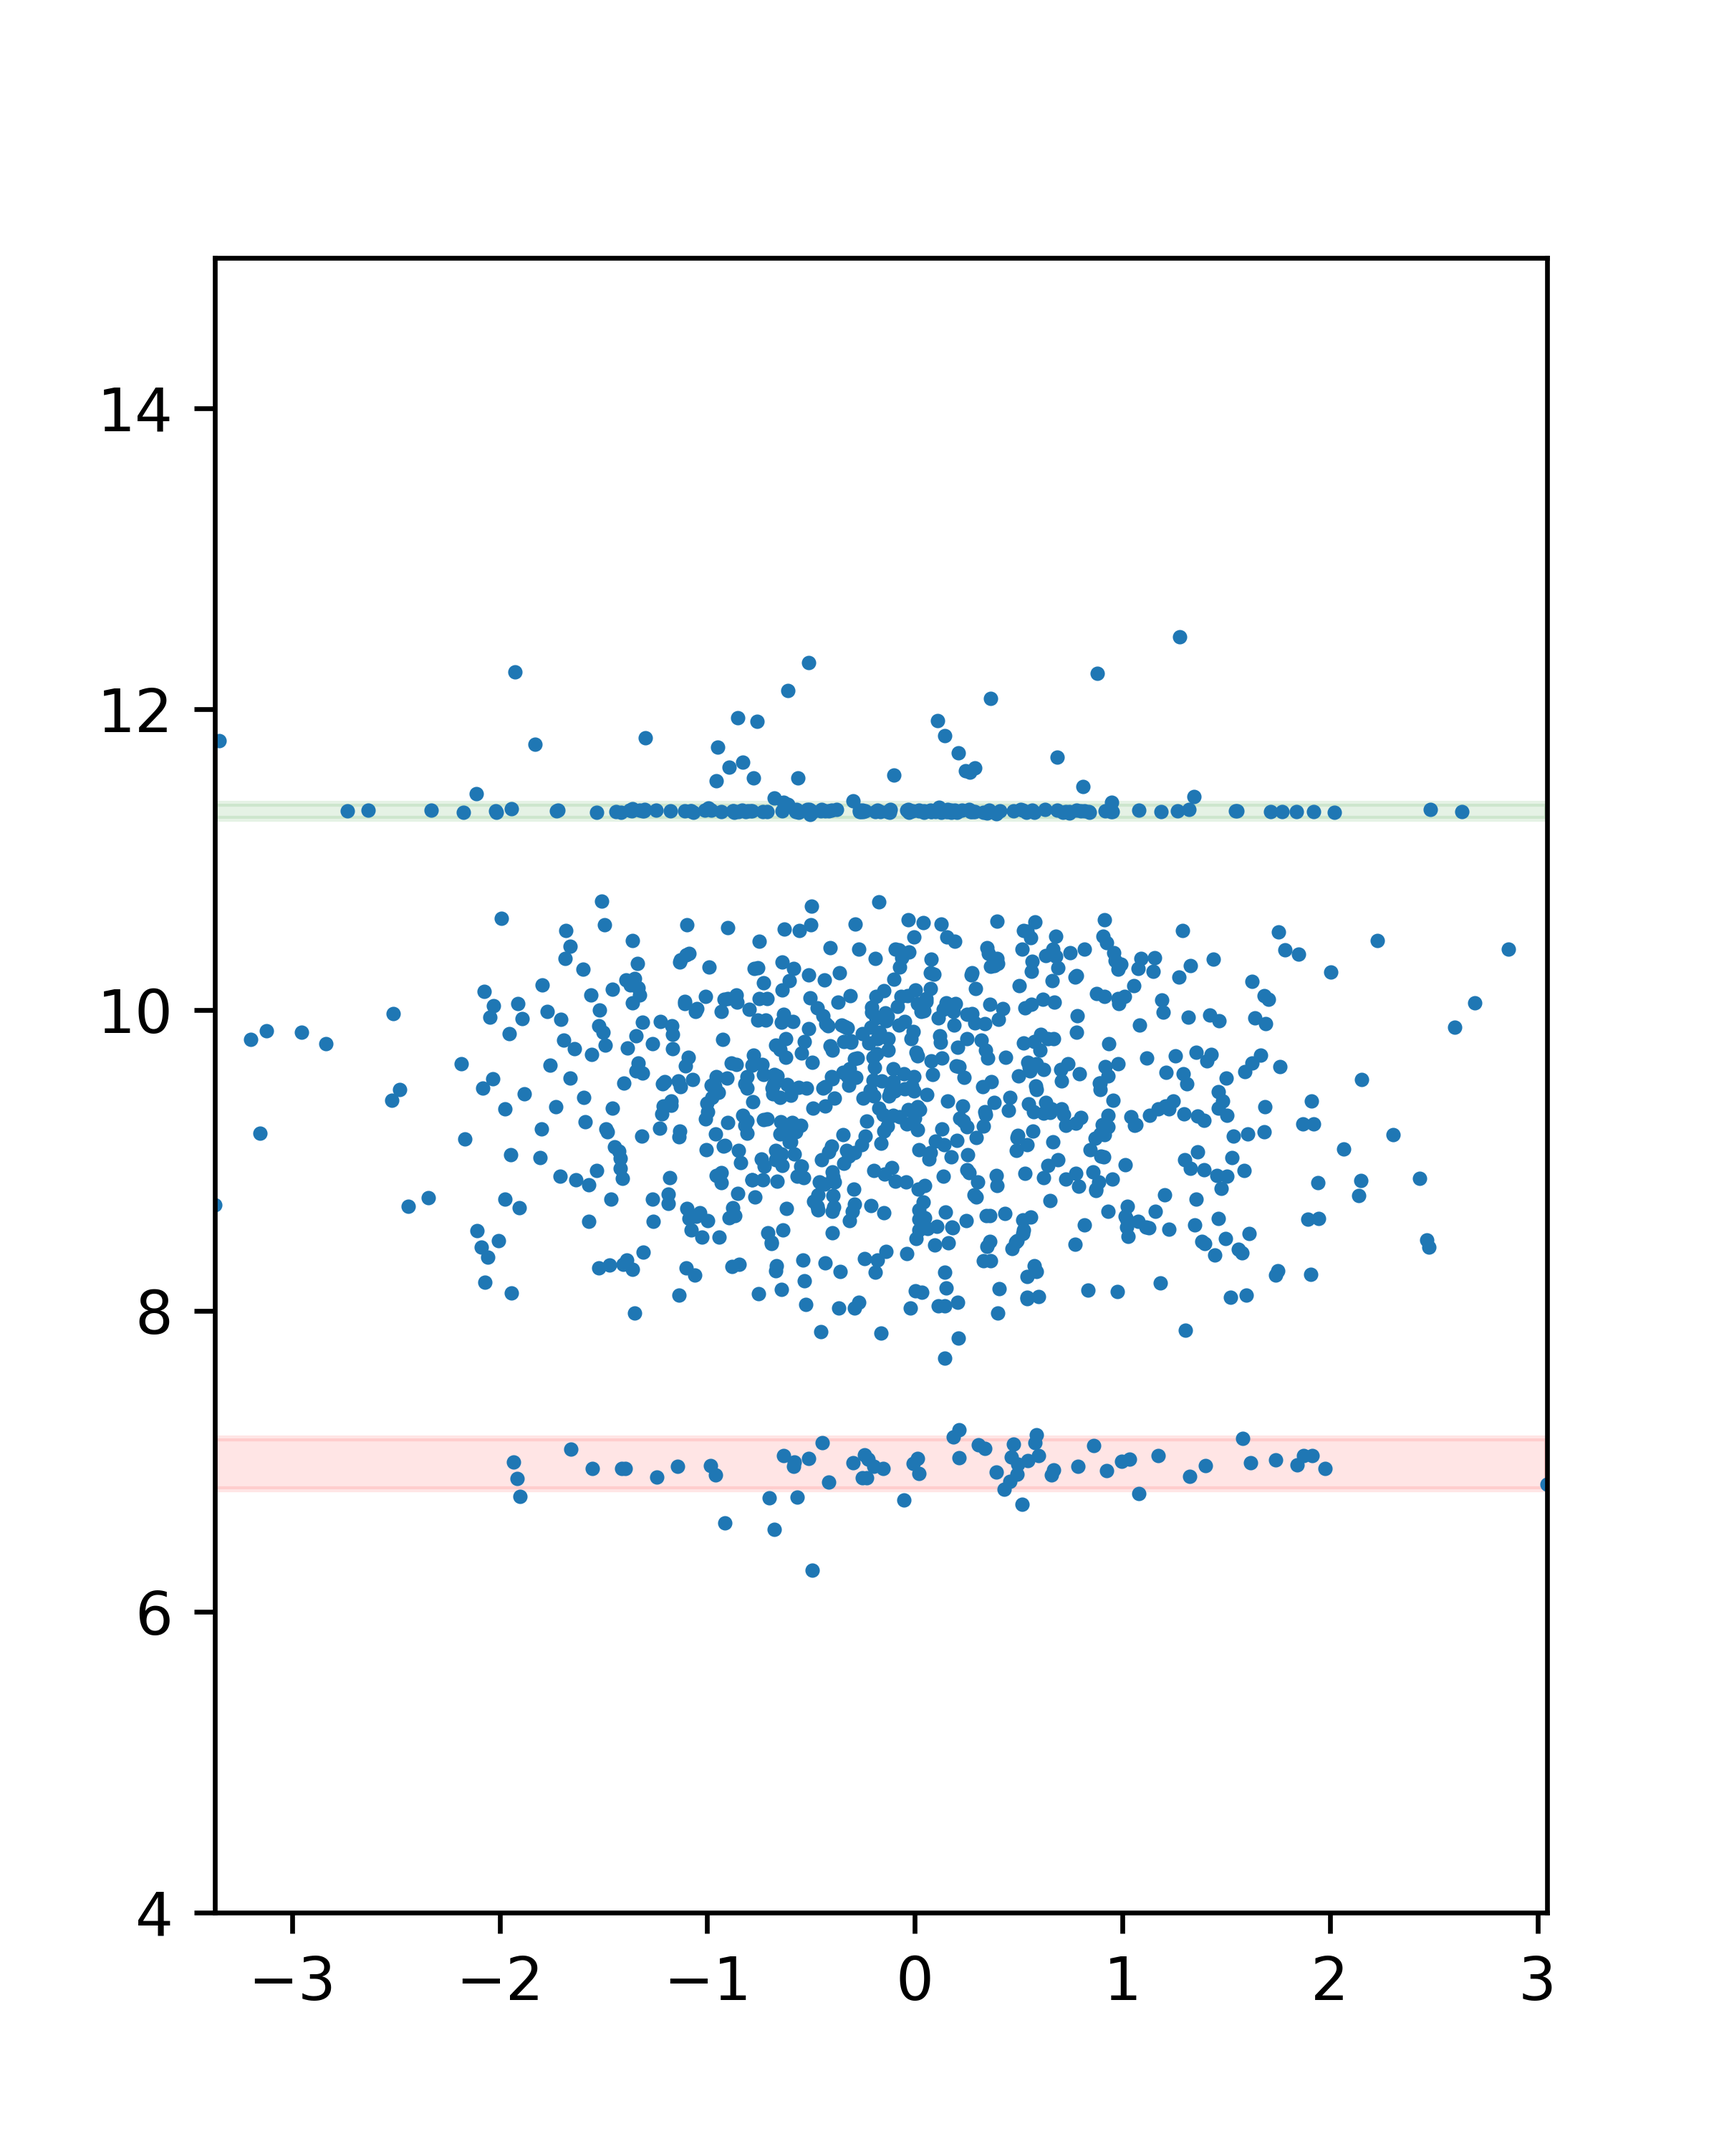
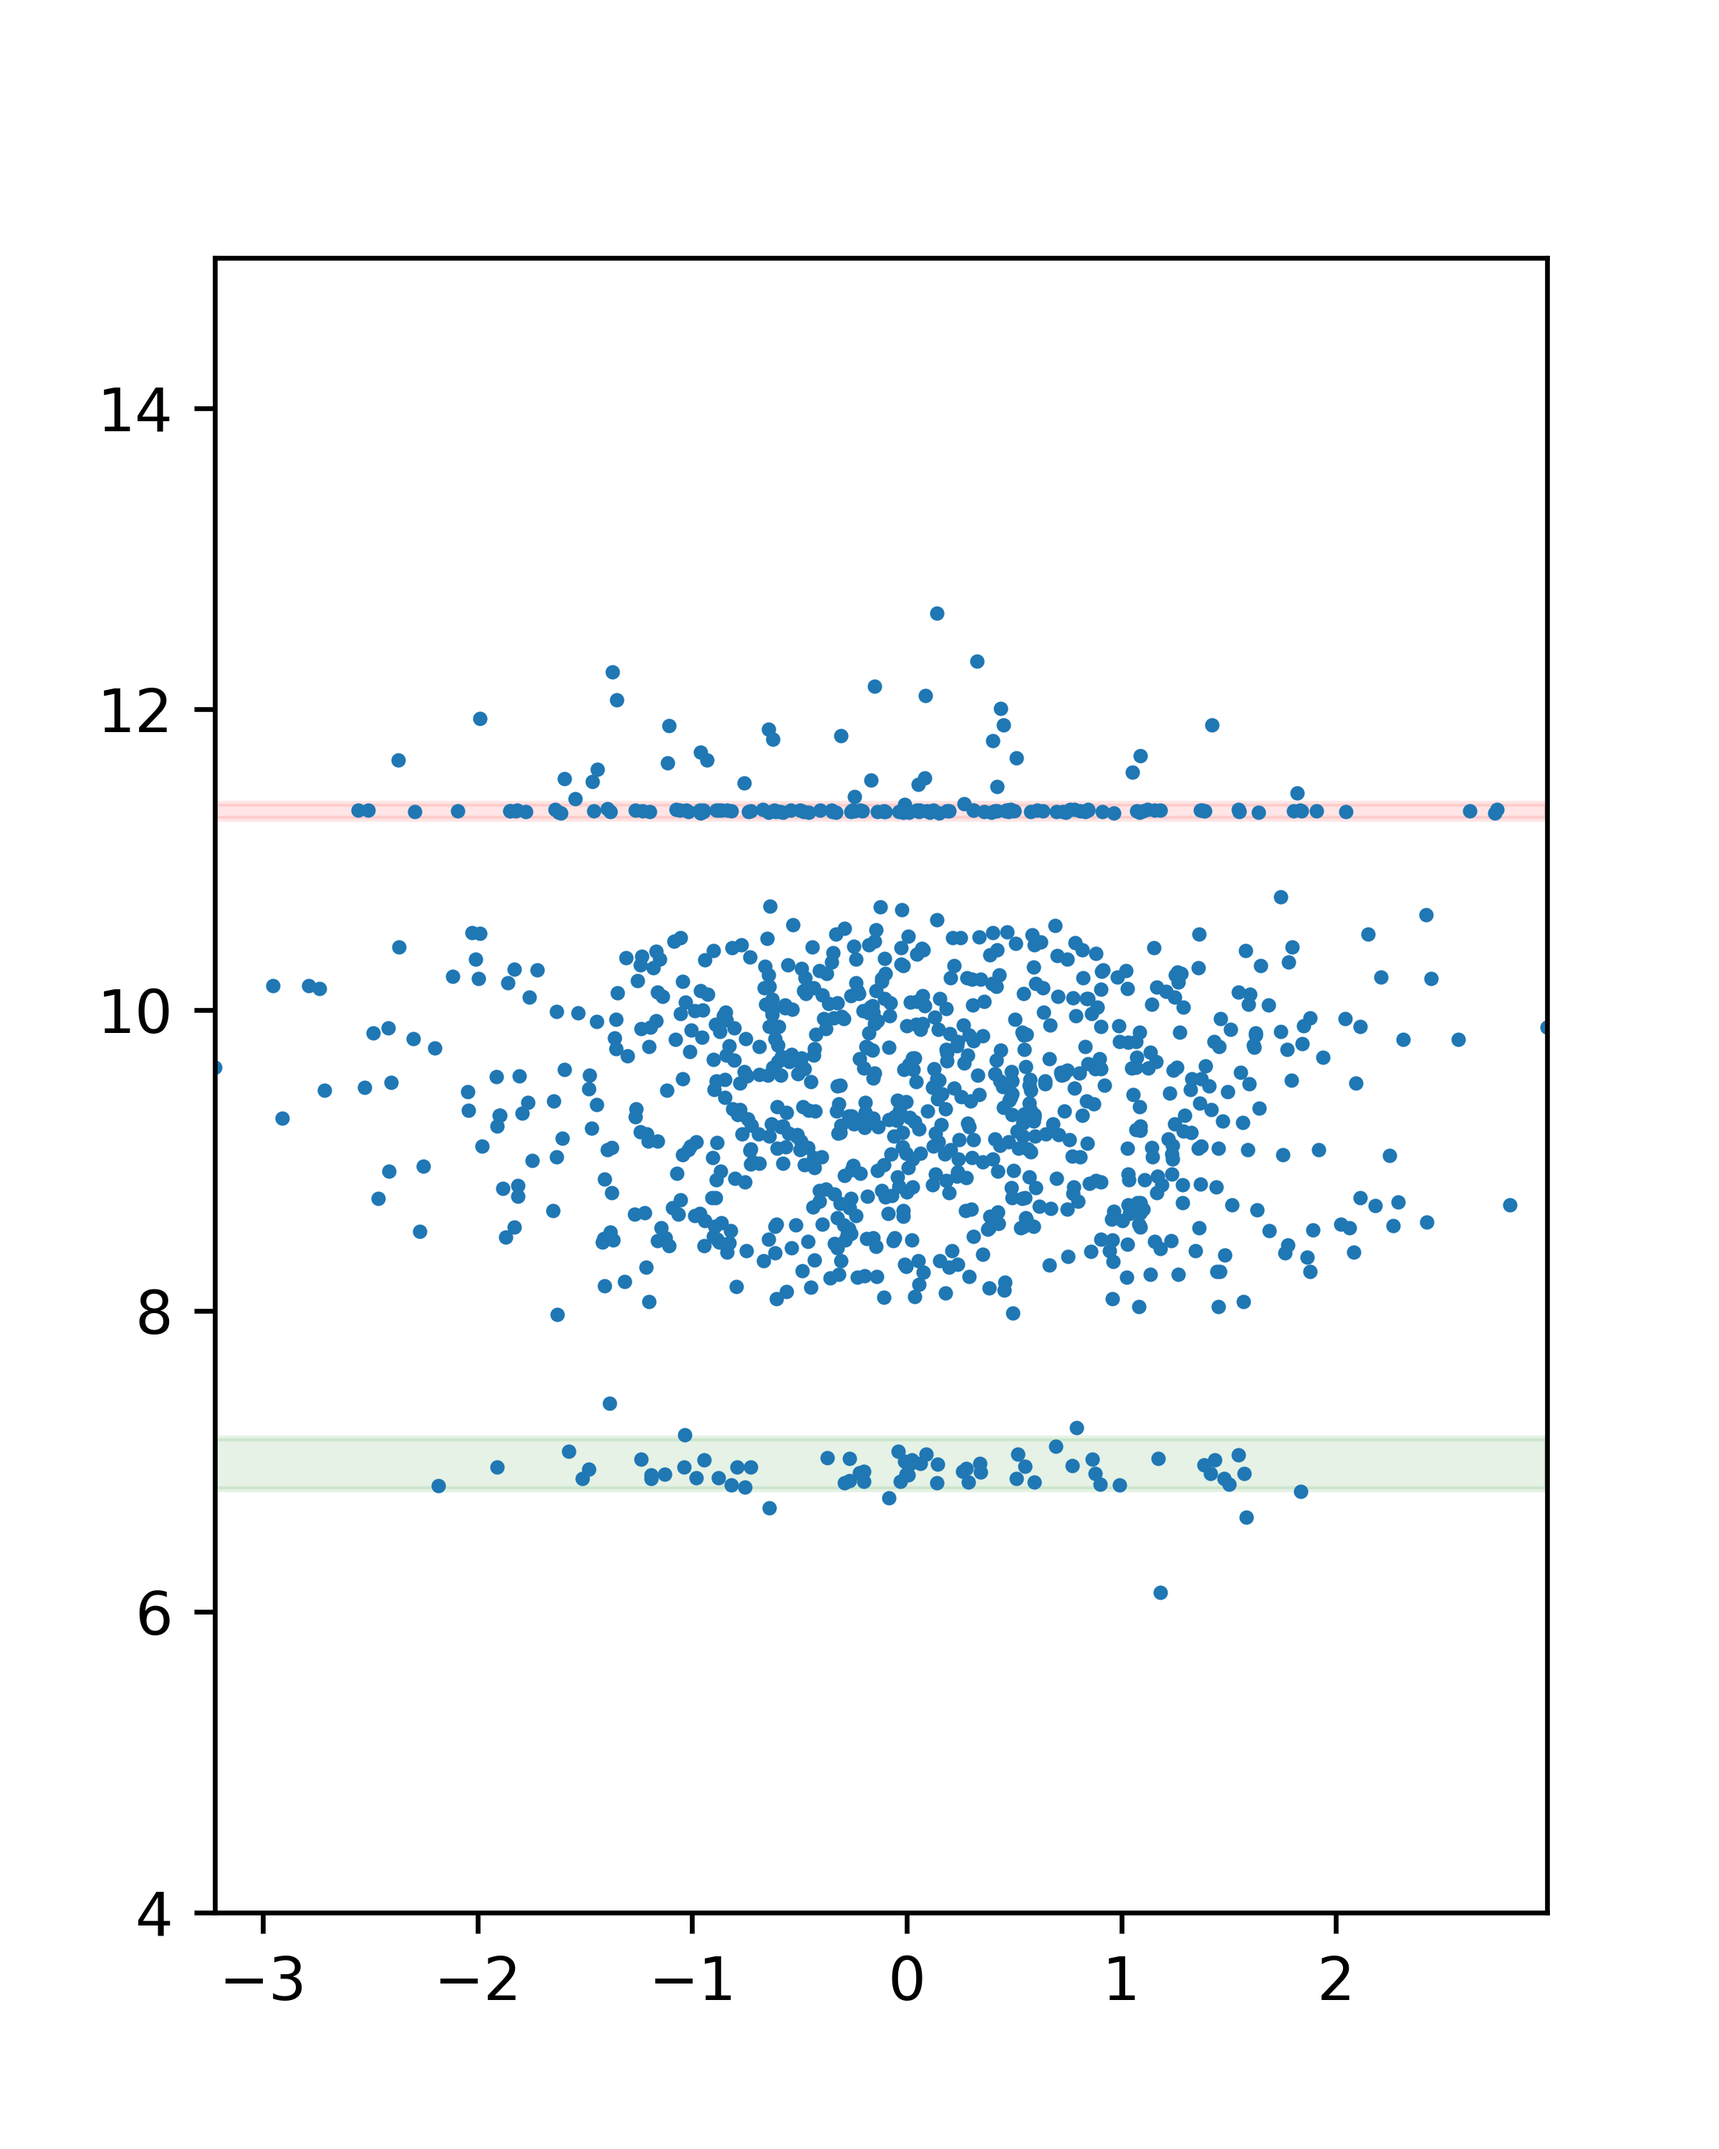
Inverted colors of early and late arrivals

diff --git a/plot_slides.py b/plot_slides.py
@@ -23,8 +23,8 @@ b_low = bs[0] - par[3]*1.7
 b_high =bs[0] + par[3]*1.7
 g_low = gs[1] - par[3]/2
 g_high = gs[1] + par[3]/2
-ax_scatter.fill_between([x.min(), x.max()], [b_low]*2, [b_high]*2, alpha=.1, color="red")
-ax_scatter.fill_between([x.min(), x.max()], [g_low]*2, [g_high]*2, alpha=.1, color="green")
+ax_scatter.fill_between([x.min(), x.max()], [b_low]*2, [b_high]*2, alpha=.1, color=early_color)
+ax_scatter.fill_between([x.min(), x.max()], [g_low]*2, [g_high]*2, alpha=.1, color=late_color)
 ax_scatter.scatter(x, t_as, s=2)
 ax_scatter.set_xlim(x.min(), x.max())
 ax_scatter.set_ylim(4, 15)
@@ -42,14 +42,14 @@ n, bins, patches = ax_bin.hist(t_as, 80)
 # ax_bin.fill_betweenx([ax_bin.get_ylim()[0], ax_bin.get_ylim()[1]], [g_high]*2, [g_low]*2, color='green', alpha=.2)
 for b, p in zip(bins, patches):
     if b < b_high and b > b_low - (bins[1] - bins[0]):
-        p.set_facecolor("red")
+        p.set_facecolor(early_color)
     if b < g_high and b > g_low - (bins[1] - bins[0]):
-        p.set_facecolor("green")
+        p.set_facecolor(late_color)
 
 x = np.linspace(6, 13, 300)
 tt_line = ax_bin.plot(x, tt.f(x)*40, color="purple", linewidth=2, label="Travel time function")
 
 labels = [tt_line[0].get_label(), "Early arrivals", "Late arrivals"]
-handles = [tt_line[0], Patch(facecolor="red"), Patch(facecolor="green")]
+handles = [tt_line[0], Patch(facecolor=early_color), Patch(facecolor=late_color)]
 ax_bin.legend(handles, labels)
 fig_bin.savefig("slides/img/t_as_bins_tt.png", dpi=600)
